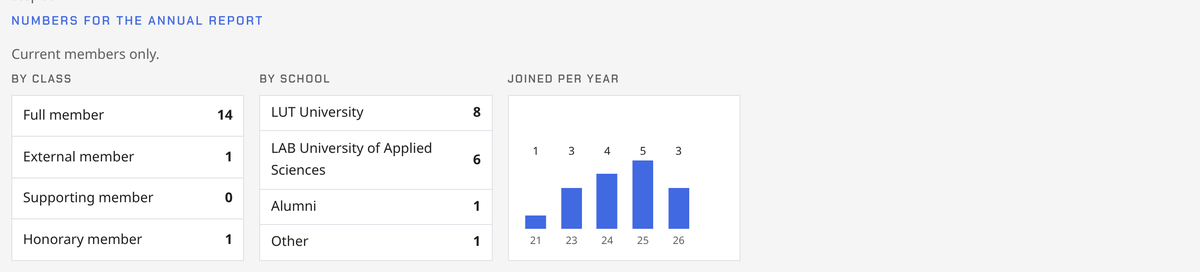
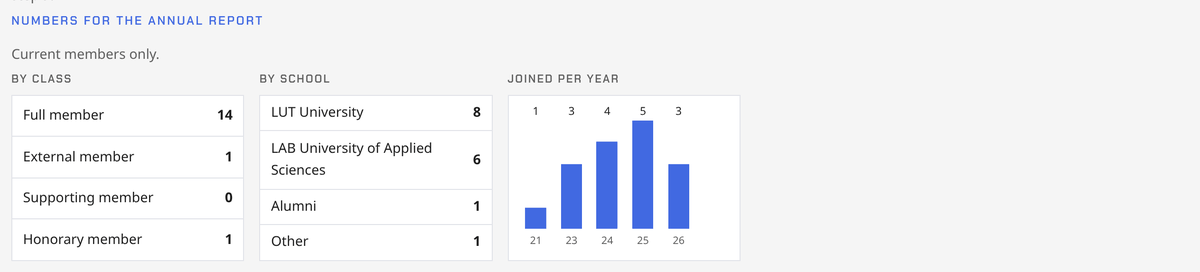
The year chart's bars fill their box
Claude-Session: https://claude.ai/code/session_019m4NkzFyEy3cwdh3cuTmAt

Changed region(s): [[0.4625, 0.4412, 0.555, 0.7059], [0.555, 0.5882, 0.5858, 0.7059], [0.4317, 0.7647, 0.4625, 0.7941]]

diff --git a/src/styles/site.css b/src/styles/site.css
@@ -982,13 +982,14 @@ a:hover {
   padding: 0;
   display: flex;
   flex-wrap: wrap;
-  align-items: flex-end;
+  align-items: stretch;
   gap: 0.35rem;
 }
 .year-bars li {
   display: flex;
   flex-direction: column;
   align-items: center;
+  justify-content: flex-end;
   width: 2rem;
   margin: 0;
 }
@@ -998,10 +999,14 @@ a:hover {
   line-height: 1;
   margin-bottom: 0.2rem;
 }
+/* The bars scale with the box (preserveAspectRatio="none" on the SVG):
+   the tallest year reaches the top whatever the row height. */
 .year-bar {
   display: block;
   width: 1.4rem;
   height: 4.5rem;
+  flex: 1 1 auto;
+  min-height: 0;
 }
 .year-bar rect {
   fill: var(--blue);
